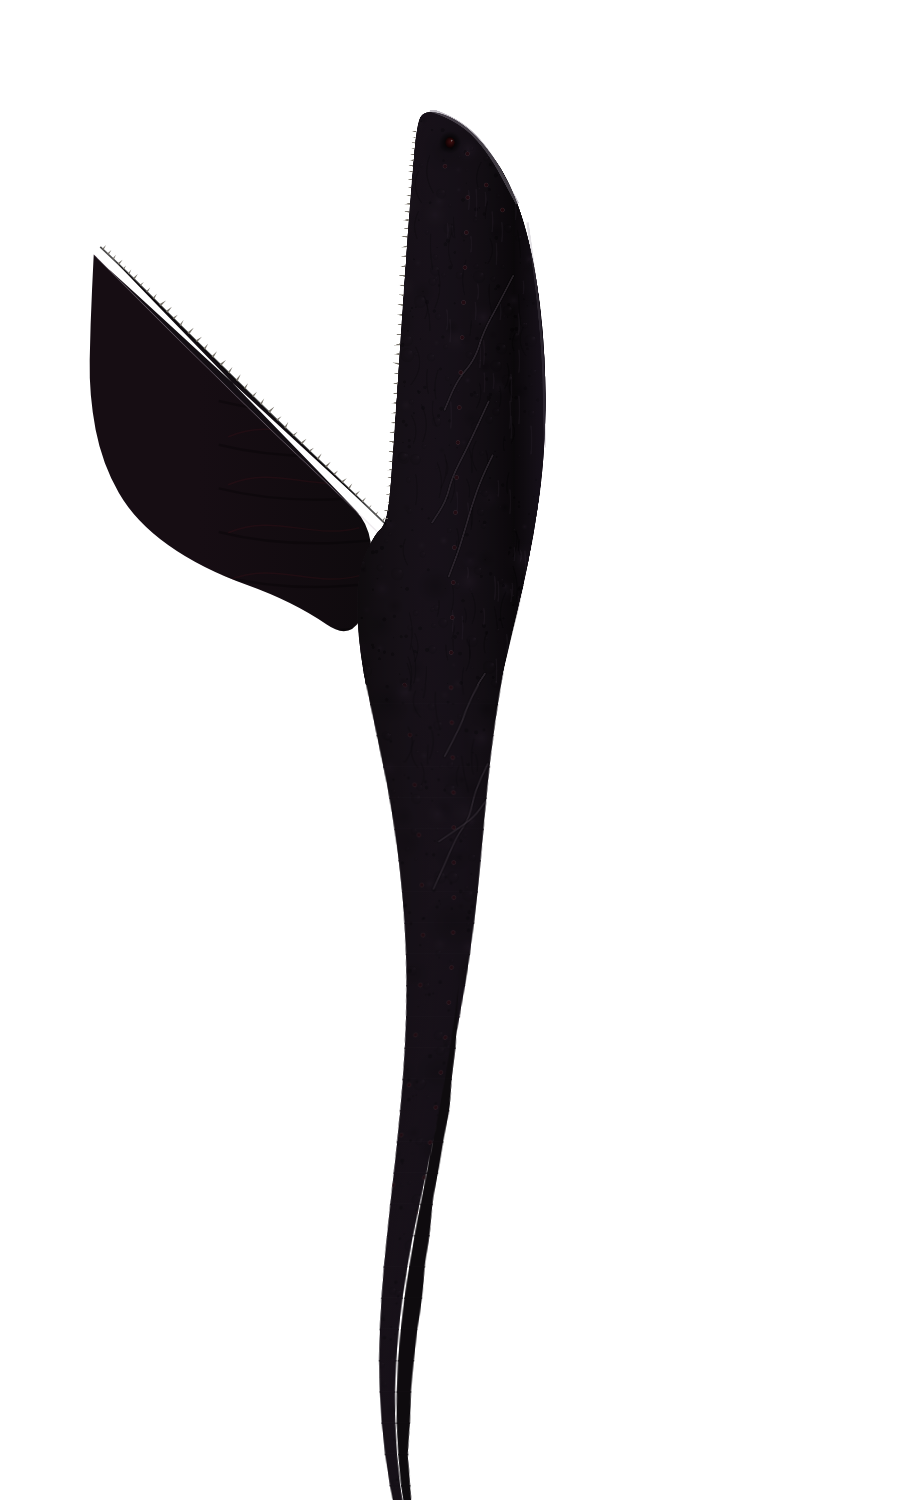
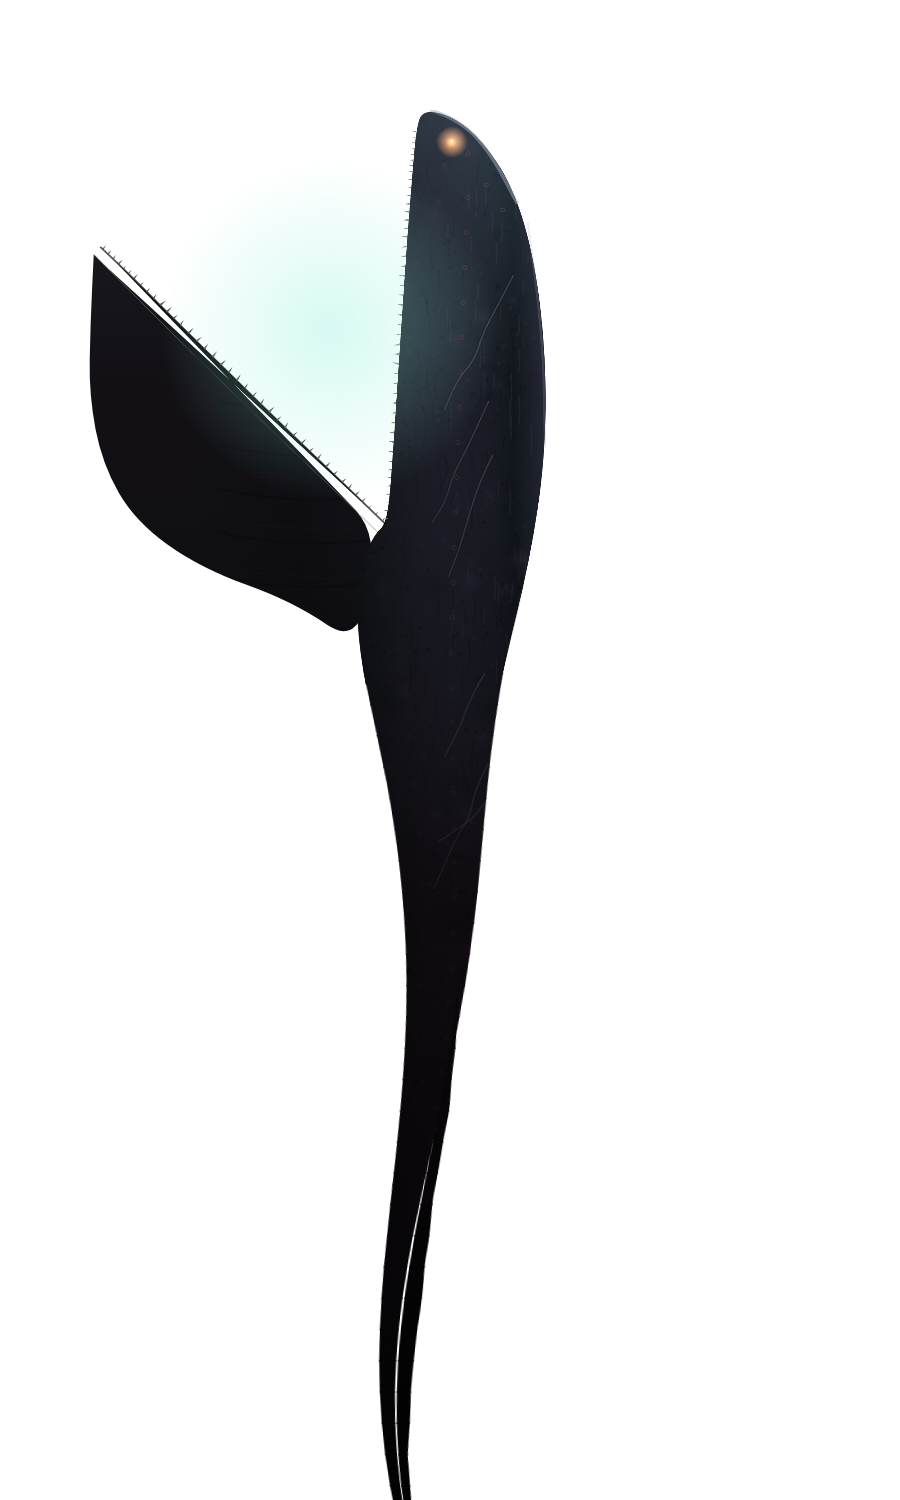
4.15.1: the loading screen's pictures remade: a softer sea (blurred shafts of light, a bright surface skin, darkening edges; a small JPEG), the monster lit from above with a glow in its open mouth, Earl diving with his lamp, sardines and mackerel near the surface and lanternfish glowing below; the n
Claude-Session: https://claude.ai/code/session_01KViiRYY5HFnTy3p7jvNZMS

Changed region(s): [[0.2178, 0.0613, 0.6222, 0.3067]]

diff --git a/index.html b/index.html
@@ -19,6 +19,9 @@
     .ld[hidden] { display: none; }
     .ld img { position: absolute; user-select: none; pointer-events: none; }
     .ld .ld-ocean { inset: 0; width: 100%; height: 100%; object-fit: cover; object-position: center top; }
+    .ld .ld-layer { inset: 0; width: 100%; height: 100%; object-fit: cover; object-position: center top; }
+    .ld .ld-life { animation: ld-drift 18s ease-in-out infinite alternate; }
+    .ld .ld-earl { animation: ld-swim 7s ease-in-out infinite; }
     .ld .ld-boat { width: 34vw; left: 12vw; top: calc(var(--sy) - 15.1vw); animation: ld-rock 6s ease-in-out infinite; transform-origin: 50% 80%; }
     .ld .ld-monster { height: 96vh; left: 50%; bottom: -26vh; transform: translateX(-12%); opacity: 0.92; animation: ld-rise 14s ease-in-out infinite alternate; }
     .ld .ld-shade { position: absolute; inset: 0; background: radial-gradient(ellipse at 50% 120%, rgba(0,0,0,0) 30%, rgba(0,0,0,0.55) 90%), linear-gradient(180deg, rgba(0,0,0,0) 55%, rgba(0,0,0,0.65)); }
@@ -31,6 +34,8 @@
     .ld .ld-step { margin-top: 10px; font-size: 18px; font-style: italic; color: #e6dcc0; text-shadow: 0 1px 4px #000; }
     .ld .ld-tip { margin-top: 6px; min-height: 1.3em; font-size: 15px; color: rgba(214,224,226,0.62); text-shadow: 0 1px 4px #000; transition: opacity 0.4s; }
     @keyframes ld-rise { from { transform: translate(-12%, 4vh) rotate(-2deg); } to { transform: translate(-9%, -3vh) rotate(1.5deg); } }
+    @keyframes ld-drift { from { transform: translateX(0); } to { transform: translateX(-1.6vw); } }
+    @keyframes ld-swim { 0%, 100% { transform: translate(0, 0); } 50% { transform: translate(0.8vw, 1.2vh); } }
     @keyframes ld-rock { 0%, 100% { transform: rotate(-1.2deg) translateY(0); } 50% { transform: rotate(1deg) translateY(4px); } }
     @keyframes ld-bub { from { transform: translateY(0) translateX(0); opacity: 0; } 10% { opacity: 1; } to { transform: translateY(-85vh) translateX(18px); opacity: 0; } }
     @keyframes ld-shine { from { transform: translateX(-100%); } to { transform: translateX(380%); } }
@@ -39,7 +44,7 @@
 </head>
 <body>
   <div id="boot" class="ld" aria-label="Loading">
-    <img class="ld-ocean" src="assets/loading/ocean.png" alt=""><img class="ld-monster" src="assets/loading/monster.png" alt=""><img class="ld-boat" src="assets/loading/margaret.png" alt="">
+    <img class="ld-ocean" src="assets/loading/ocean.jpg" alt=""><img class="ld-layer ld-life" src="assets/loading/life.png" alt=""><img class="ld-monster" src="assets/loading/monster.png" alt=""><img class="ld-layer ld-earl" src="assets/loading/earl.png" alt=""><img class="ld-boat" src="assets/loading/margaret.png" alt="">
     <div class="ld-shade"></div>
     <div class="ld-bubbles"><i style="left:58%;animation-delay:0s"></i><i style="left:63%;animation-delay:2.1s;width:4px;height:4px"></i><i style="left:54%;animation-delay:4.3s"></i><i style="left:67%;animation-delay:6s;width:8px;height:8px"></i><i style="left:60%;animation-delay:7.4s;width:3px;height:3px"></i><i style="left:30%;animation-delay:3.2s;width:4px;height:4px"></i><i style="left:80%;animation-delay:5.1s"></i></div>
     <div class="ld-title">Earl the Diver</div>
@@ -72,7 +77,7 @@
     </div>
   </section>
   <div id="loading" class="ld" hidden aria-label="Loading">
-    <img class="ld-ocean" src="assets/loading/ocean.png" alt=""><img class="ld-monster" src="assets/loading/monster.png" alt=""><img class="ld-boat" src="assets/loading/margaret.png" alt="">
+    <img class="ld-ocean" src="assets/loading/ocean.jpg" alt=""><img class="ld-layer ld-life" src="assets/loading/life.png" alt=""><img class="ld-monster" src="assets/loading/monster.png" alt=""><img class="ld-layer ld-earl" src="assets/loading/earl.png" alt=""><img class="ld-boat" src="assets/loading/margaret.png" alt="">
     <div class="ld-shade"></div>
     <div class="ld-bubbles"><i style="left:58%;animation-delay:0s"></i><i style="left:63%;animation-delay:2.1s;width:4px;height:4px"></i><i style="left:54%;animation-delay:4.3s"></i><i style="left:67%;animation-delay:6s;width:8px;height:8px"></i><i style="left:60%;animation-delay:7.4s;width:3px;height:3px"></i><i style="left:30%;animation-delay:3.2s;width:4px;height:4px"></i><i style="left:80%;animation-delay:5.1s"></i></div>
     <div class="ld-title">Earl the Diver</div>

diff --git a/js/ui.js b/js/ui.js
@@ -1419,7 +1419,7 @@ export class UI {
       } else if (this.ydAll) {
         html += `<div class="yd-top"><h3>All submersibles</h3><button class="yd-btn" data-yd="back">← Back to your sub</button></div><div class="yd-grid">`;
         for (let k = 0; k <= Math.min(hl + 1, SUBS.length - 1); k++) {
-          if (k > cap) { html += `<div class="yd-card unknown"><div class="yd-pic dark"><span>?</span></div><h4><small>No. ${k + 1}</small>To be discovered</h4></div>`; break; }
+          if (k > cap) { html += `<div class="yd-card unknown"><div class="yd-pic dark"><span>?</span></div><h4><small>No. ${k + 1}</small>To be discovered <em class="yd-where">(${cap < 3 ? 'the research station' : "Dave's cabin"})</em></h4>${sheet(SUBS[k], k, S0)}</div>`; break; } // (4.15.1) its figures shown; where its plans are, in brackets
           const S = SUBS[k];
           html += `<div class="yd-card${k === hl ? ' cur' : ''}" data-yd="sub:${k}" title="See the ${esc(S.name)}"><canvas class="yd-pic" data-hull="${k}"></canvas><h4><small>No. ${k + 1}</small>${S.name}</h4>${sheet(S, k, k === hl ? null : S0, k === hl && !sub.imploded ? 'IN SERVICE' : '')}<div class="yd-foot">${statusOf(k)}</div></div>`;
         }

diff --git a/css/style.css b/css/style.css
@@ -2591,3 +2591,4 @@ body:has(#tankroom:not([hidden])) #tut-spot .ts-line { top: 96px; }
 /* (4.15.0) the dive's loading screen: the boot screen's design (its rules are in index.html) */
 #loading.ld { display: block; z-index: 9600; background: #02070a; }
 #loading.ld[hidden] { display: none; }
+#workshop .yd-where { font: italic 14px var(--serif); color: rgba(232,212,154,0.75); }

diff --git a/js/version.js b/js/version.js
@@ -1,3 +1,3 @@
 // The game's version. Bumped with every change: the last number for small fixes and tweaks,
 // the middle one for new features or bigger changes, the first for a major overhaul.
-export const VERSION = '4.15.0';
+export const VERSION = '4.15.1';
